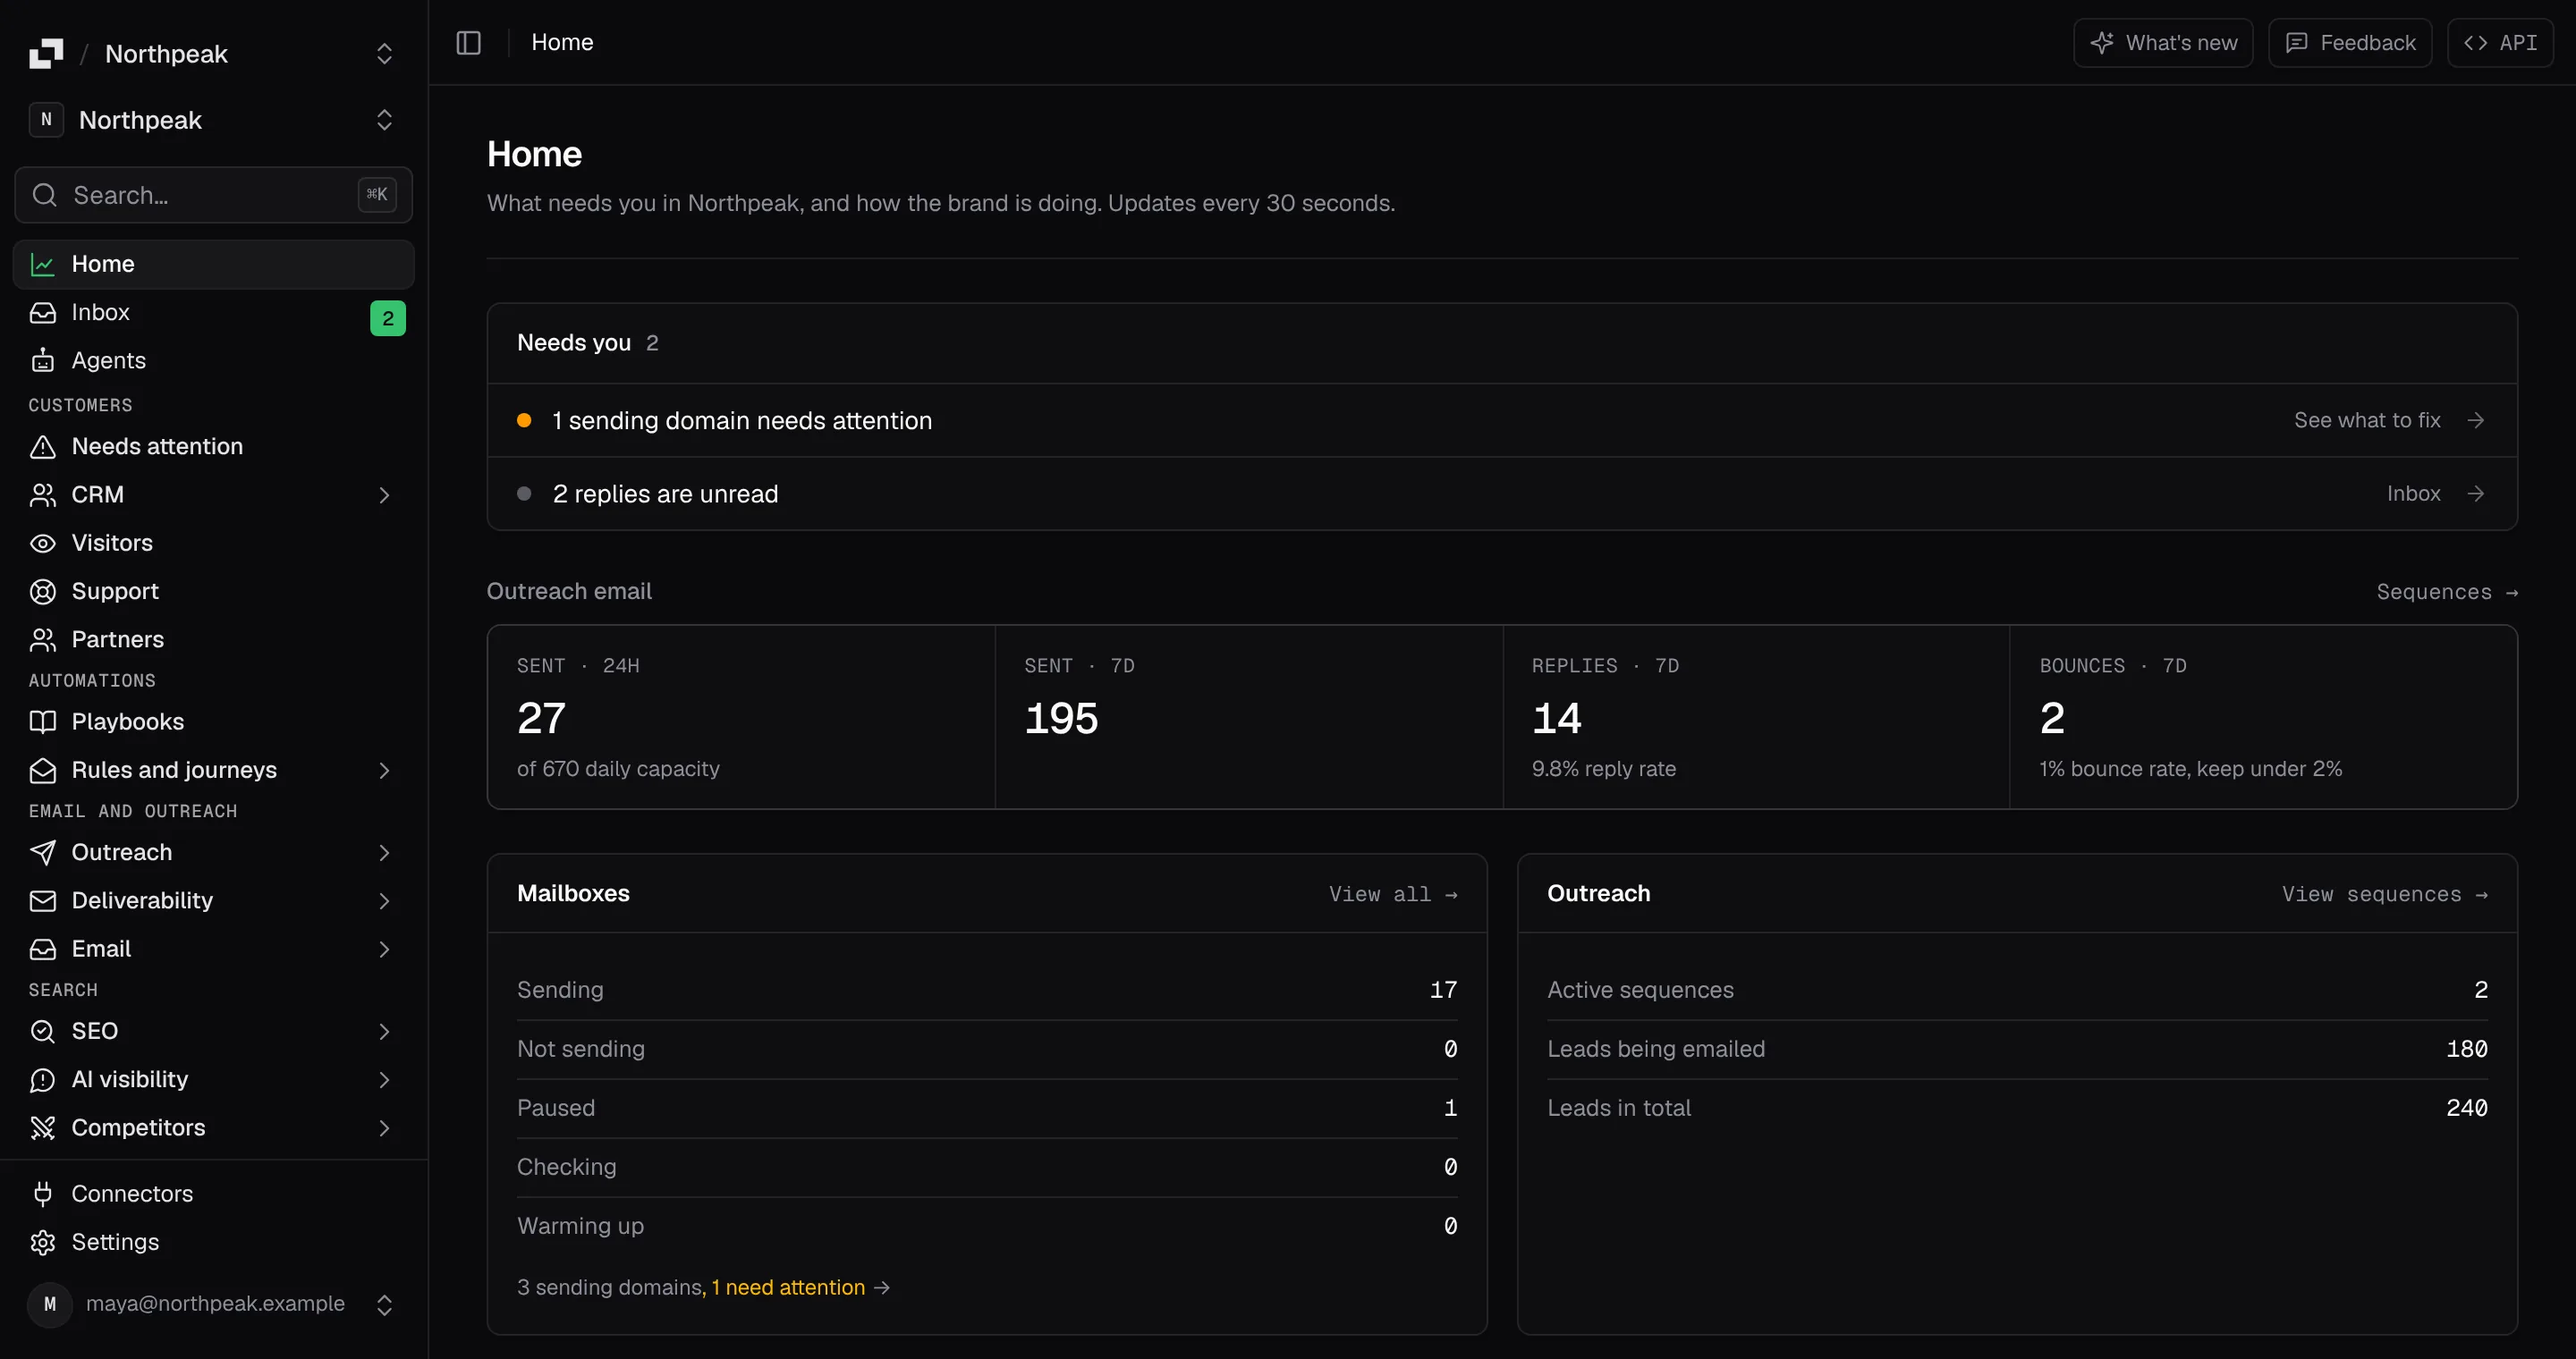
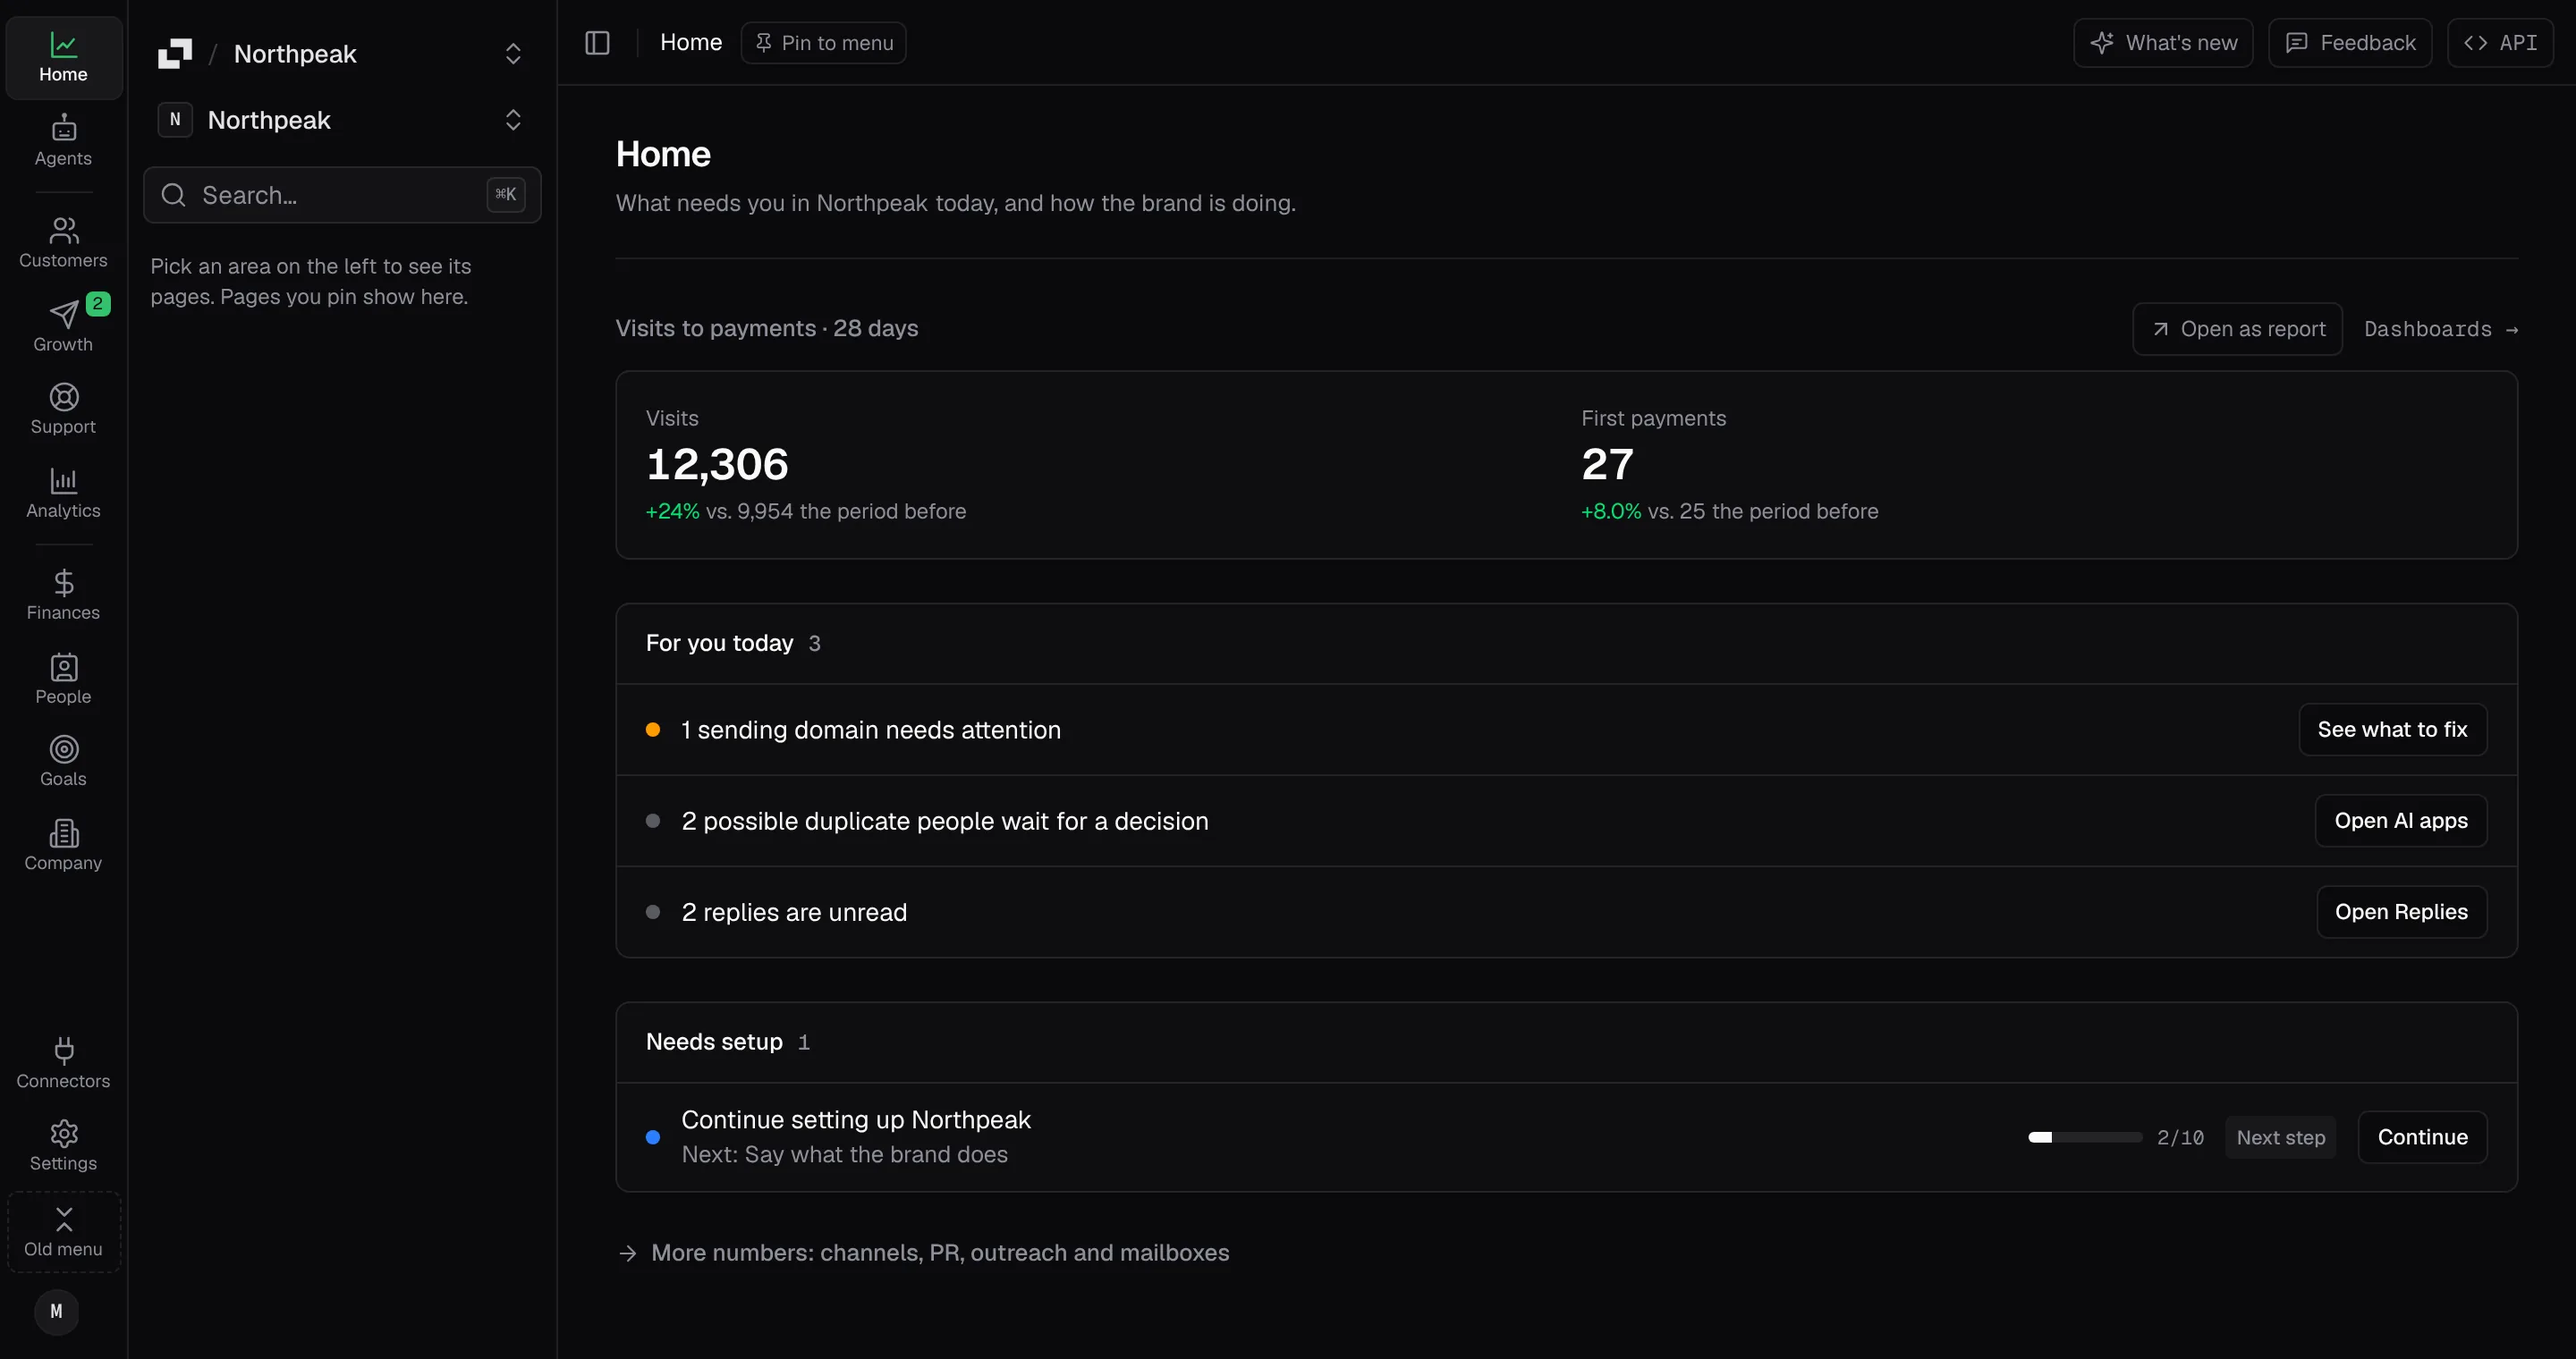
Home page: new hero screens and live company modules
The hero now shows Home, Dashboards, Partnerships, Inbox, CRM (deals),
Money and SEO, shot from the made-up Northpeak demo workspace in light and
dark. Mailboxes and Connectors leave the hero; their unused screenshots go.
Module cards add Partnerships and Lead finder (Outflare Cloud), and Money,
People and Goals are live, with summaries of what they do today.

diff --git a/src/data/modules.ts b/src/data/modules.ts
@@ -8,7 +8,7 @@ export interface Module {
 	summary: string;
 	status: ModuleStatus;
 	// growth: find, win and keep customers. company: the rest of the business
-	// (money, people, goals), shown as coming until it ships.
+	// (money, people, goals).
 	area: 'growth' | 'company';
 	docs?: string;
 	// Inner SVG markup for a 24x24 stroke icon.
@@ -63,6 +63,14 @@ export const modules: Module[] = [
 		icon: '<path d="M16 21v-2a4 4 0 0 0-4-4H6a4 4 0 0 0-4 4v2"/><circle cx="9" cy="7" r="4"/><path d="M22 21v-2a4 4 0 0 0-3-3.87"/><path d="M16 3.13a4 4 0 0 1 0 7.75"/>',
 	},
 	{
+		name: 'Lead finder',
+		summary: 'On Outflare Cloud: finds companies that fit your ideal customer, the people to contact there and their work email, then shows the replies and meetings that came of it.',
+		status: 'live',
+		area: 'growth',
+		docs: '/docs/guides/lead-finder/',
+		icon: '<circle cx="11" cy="11" r="8"/><path d="m21 21-4.3-4.3"/><circle cx="11" cy="9" r="2.5"/><path d="M7 15a4 4 0 0 1 8 0"/>',
+	},
+	{
 		name: 'Email campaigns',
 		summary: 'Sequences, sending domains and deliverability checks, with one policy check on every email and limits agents cannot get around.',
 		status: 'live',
@@ -111,6 +119,14 @@ export const modules: Module[] = [
 		icon: '<path d="M3 11l18-5v12L3 14v-3z"/><path d="M11.6 16.8a3 3 0 1 1-5.8-1.6"/>',
 	},
 	{
+		name: 'Partnerships',
+		summary: 'Every site and person a brand works with in one partner CRM: sponsorships, SEO links, integrations and affiliates, each with its own pipeline, from first contact to what it brought in.',
+		status: 'live',
+		area: 'growth',
+		docs: '/docs/guides/partnerships/',
+		icon: '<path d="m11 17 2 2a1 1 0 1 0 3-3"/><path d="m14 14 2.5 2.5a1 1 0 1 0 3-3l-3.88-3.88a3 3 0 0 0-4.24 0l-.88.88a1 1 0 1 1-3-3l2.81-2.81a5.79 5.79 0 0 1 7.06-.87l.47.28a2 2 0 0 0 1.42.25L21 4"/><path d="m21 3 1 11h-2"/><path d="M3 3 2 14l6.5 6.5a1 1 0 1 0 3-3"/><path d="M3 4h8"/>',
+	},
+	{
 		name: 'Lifecycle email',
 		summary: 'Receipts, onboarding and product email from your own Amazon SES, Postmark or Resend account, with versioned templates.',
 		status: 'live',
@@ -135,23 +151,25 @@ export const modules: Module[] = [
 	},
 	{
 		name: 'Money',
-		summary: 'Revenue, costs and cash for the whole company from your billing, accounting and bank, added up across every brand.',
-		status: 'building',
+		summary: 'The whole company\'s money in one place: revenue, ad spend, outreach, AI, partner payouts and staff pay across every brand, with profit and margin in your own currency.',
+		status: 'live',
 		area: 'company',
 		icon: '<rect width="20" height="14" x="2" y="5" rx="2"/><path d="M2 10h20"/>',
 	},
 	{
 		name: 'People',
-		summary: 'Everyone who works with you, staff, contractors and agencies, with their role, their team and what they cost.',
-		status: 'building',
+		summary: 'Everyone who works at the company, with their department, team and manager, and the work accounts the company hands them.',
+		status: 'live',
 		area: 'company',
+		docs: '/docs/guides/team/',
 		icon: '<circle cx="12" cy="8" r="4"/><path d="M4 21v-1a6 6 0 0 1 6-6h4a6 6 0 0 1 6 6v1"/>',
 	},
 	{
 		name: 'Goals',
-		summary: 'The targets the company is working toward, tracked from your own numbers, so people and agents see what matters most.',
-		status: 'planned',
+		summary: 'Goals, projects and tasks for the whole company or one brand, so people and agents see what matters most and work toward it.',
+		status: 'live',
 		area: 'company',
+		docs: '/docs/guides/goals/',
 		icon: '<path d="M4 22V4"/><path d="M4 4h12l-2 4 2 4H4"/>',
 	},
 ];

diff --git a/src/data/positioning.ts b/src/data/positioning.ts
@@ -6,7 +6,7 @@ export const positioning = {
 	tagline: 'Run your company with AI agents. All your data in one place. Agents do the work. You approve.',
 	// Two sentences for meta descriptions and llms.txt.
 	summary:
-		"Outflare is the open-source operating system for an online business: all your company's data in one place, AI agents that do the work, and you approve what they do. It starts with growth (analytics, SEO, ads, outreach, CRM and inbox), with money, people and goals coming next; use it from Claude, ChatGPT or Cursor through MCP or the OpenAPI 3.1 API, self-hosted (AGPL-3.0) or hosted at app.outflare.ai.",
+		"Outflare is the open-source operating system for an online business: all your company's data in one place, AI agents that do the work, and you approve what they do. It starts with growth (analytics, SEO, ads, outreach, CRM, partnerships and inbox) and now covers money, people and goals too; use it from Claude, ChatGPT or Cursor through MCP or the OpenAPI 3.1 API, self-hosted (AGPL-3.0) or hosted at app.outflare.ai.",
 	// The short form, for a card or an image alt text.
 	short: 'Outflare: run your company with AI agents',
 };
